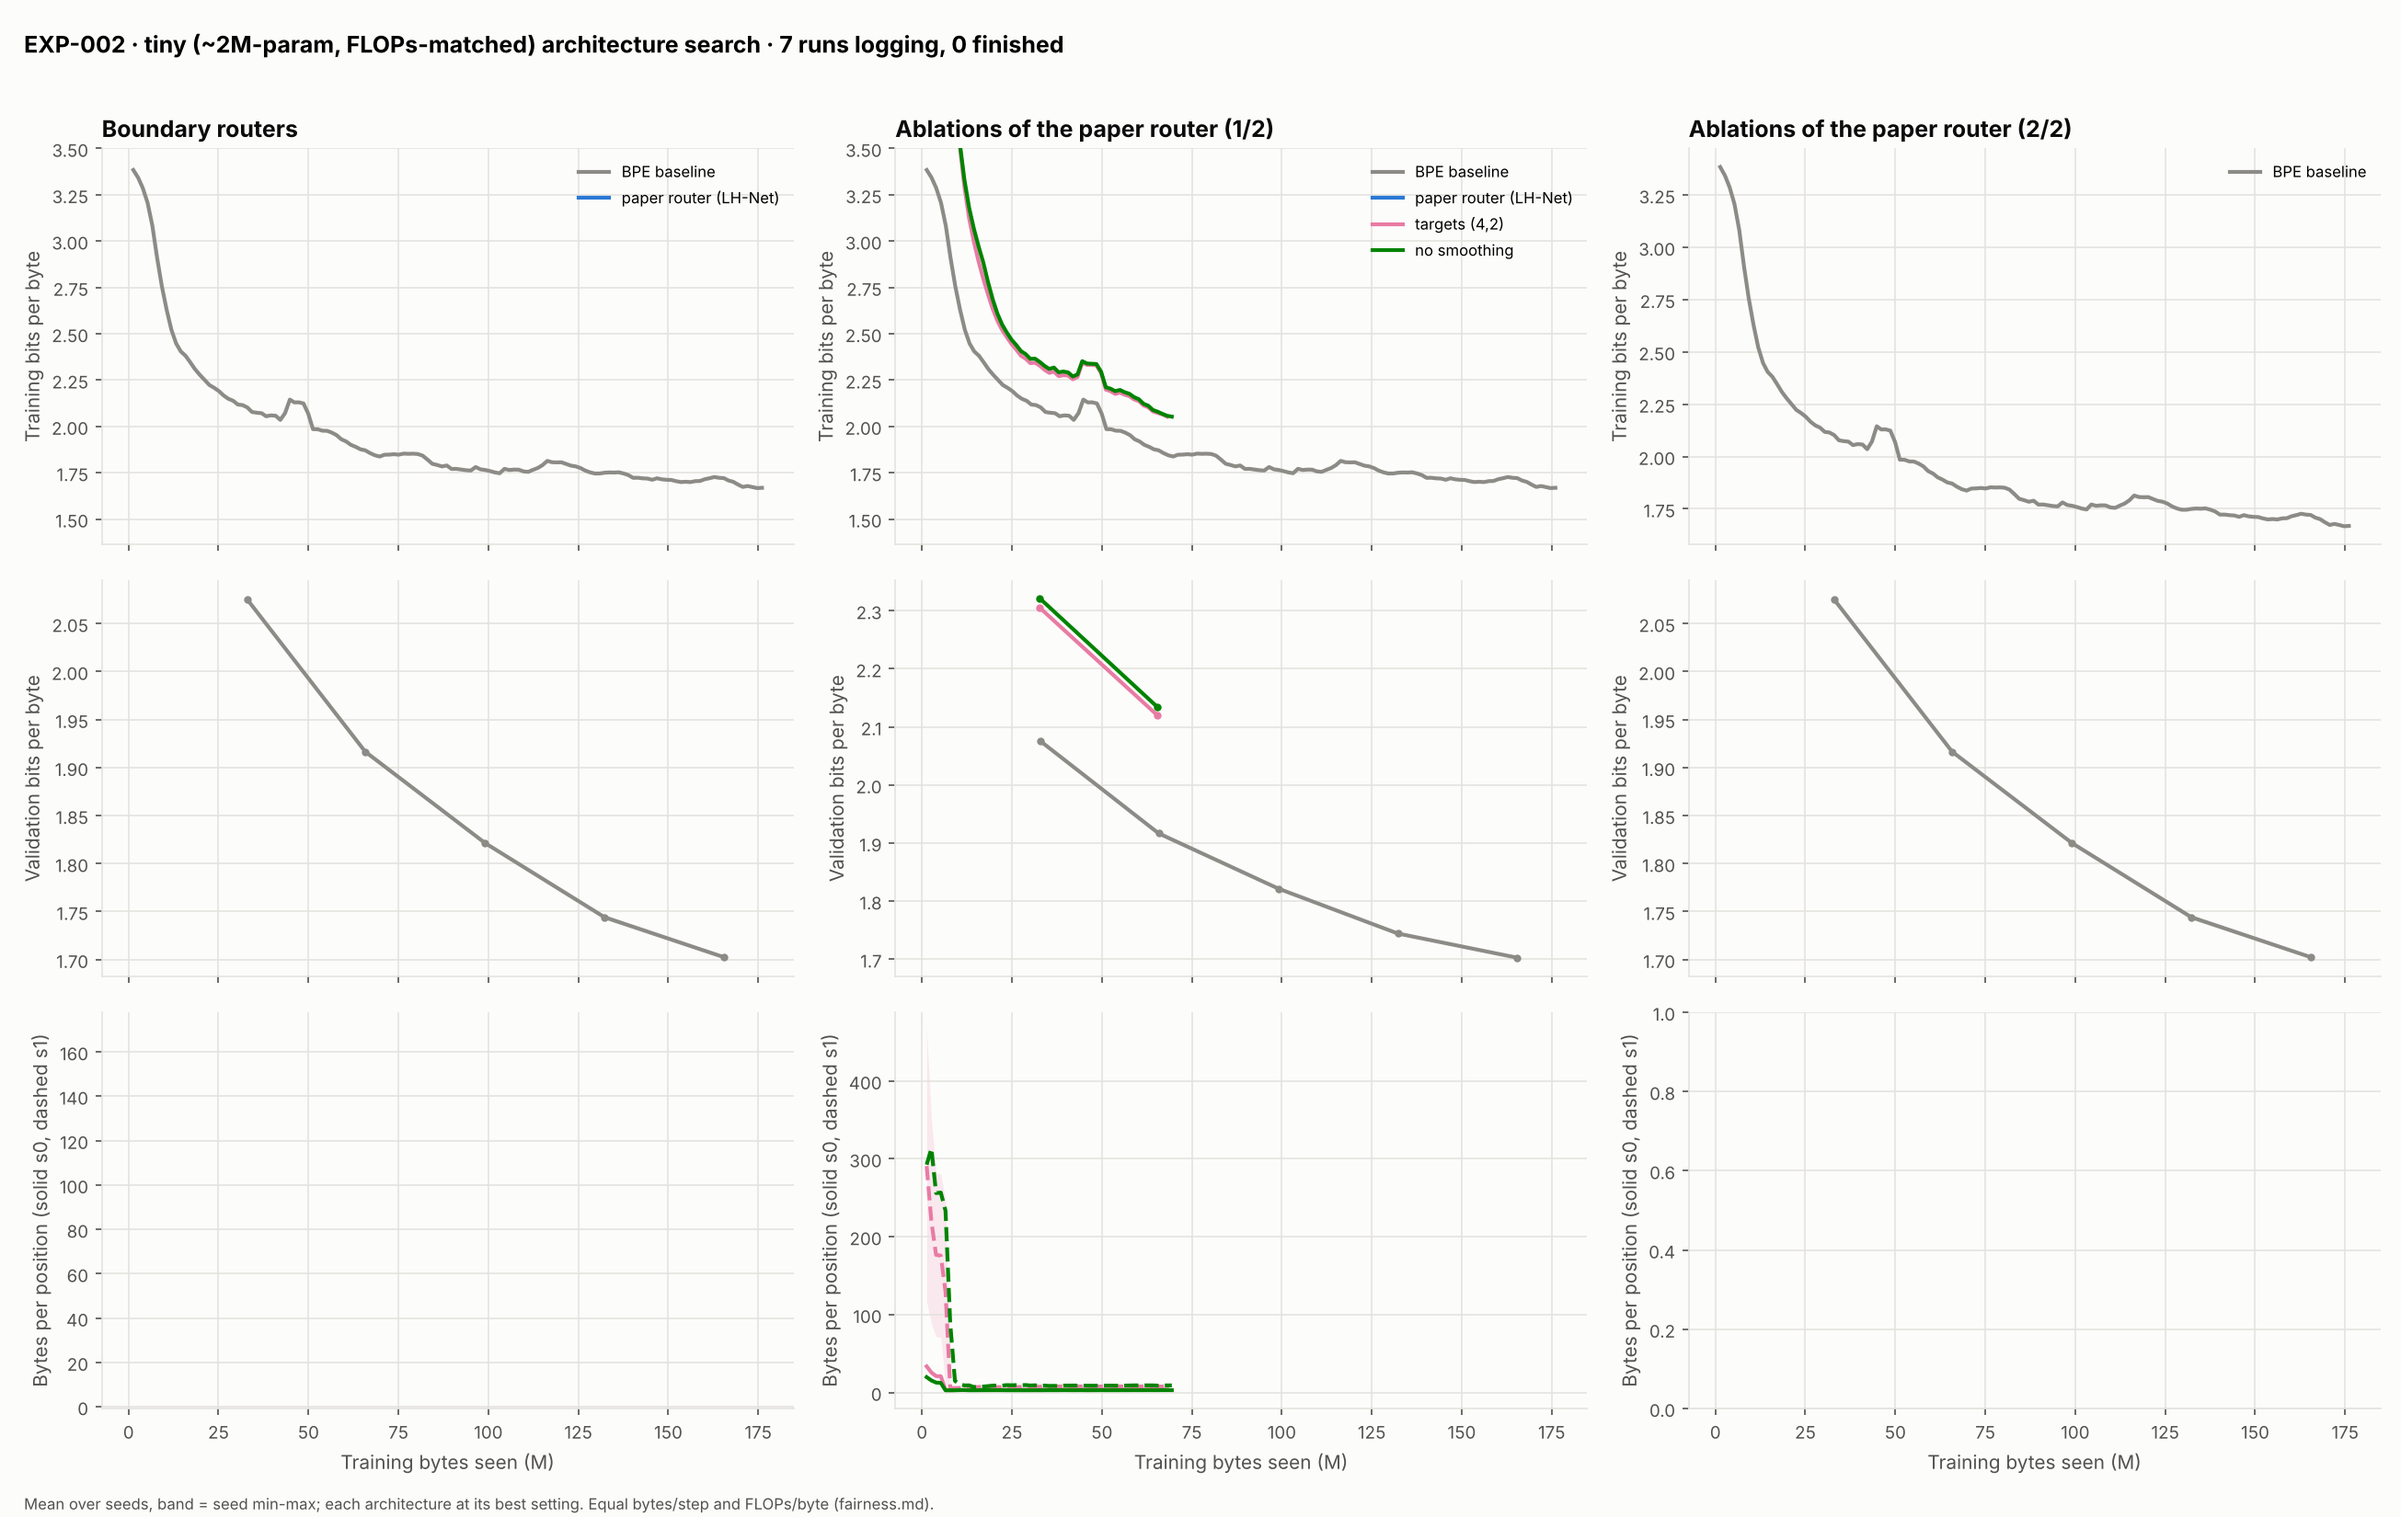
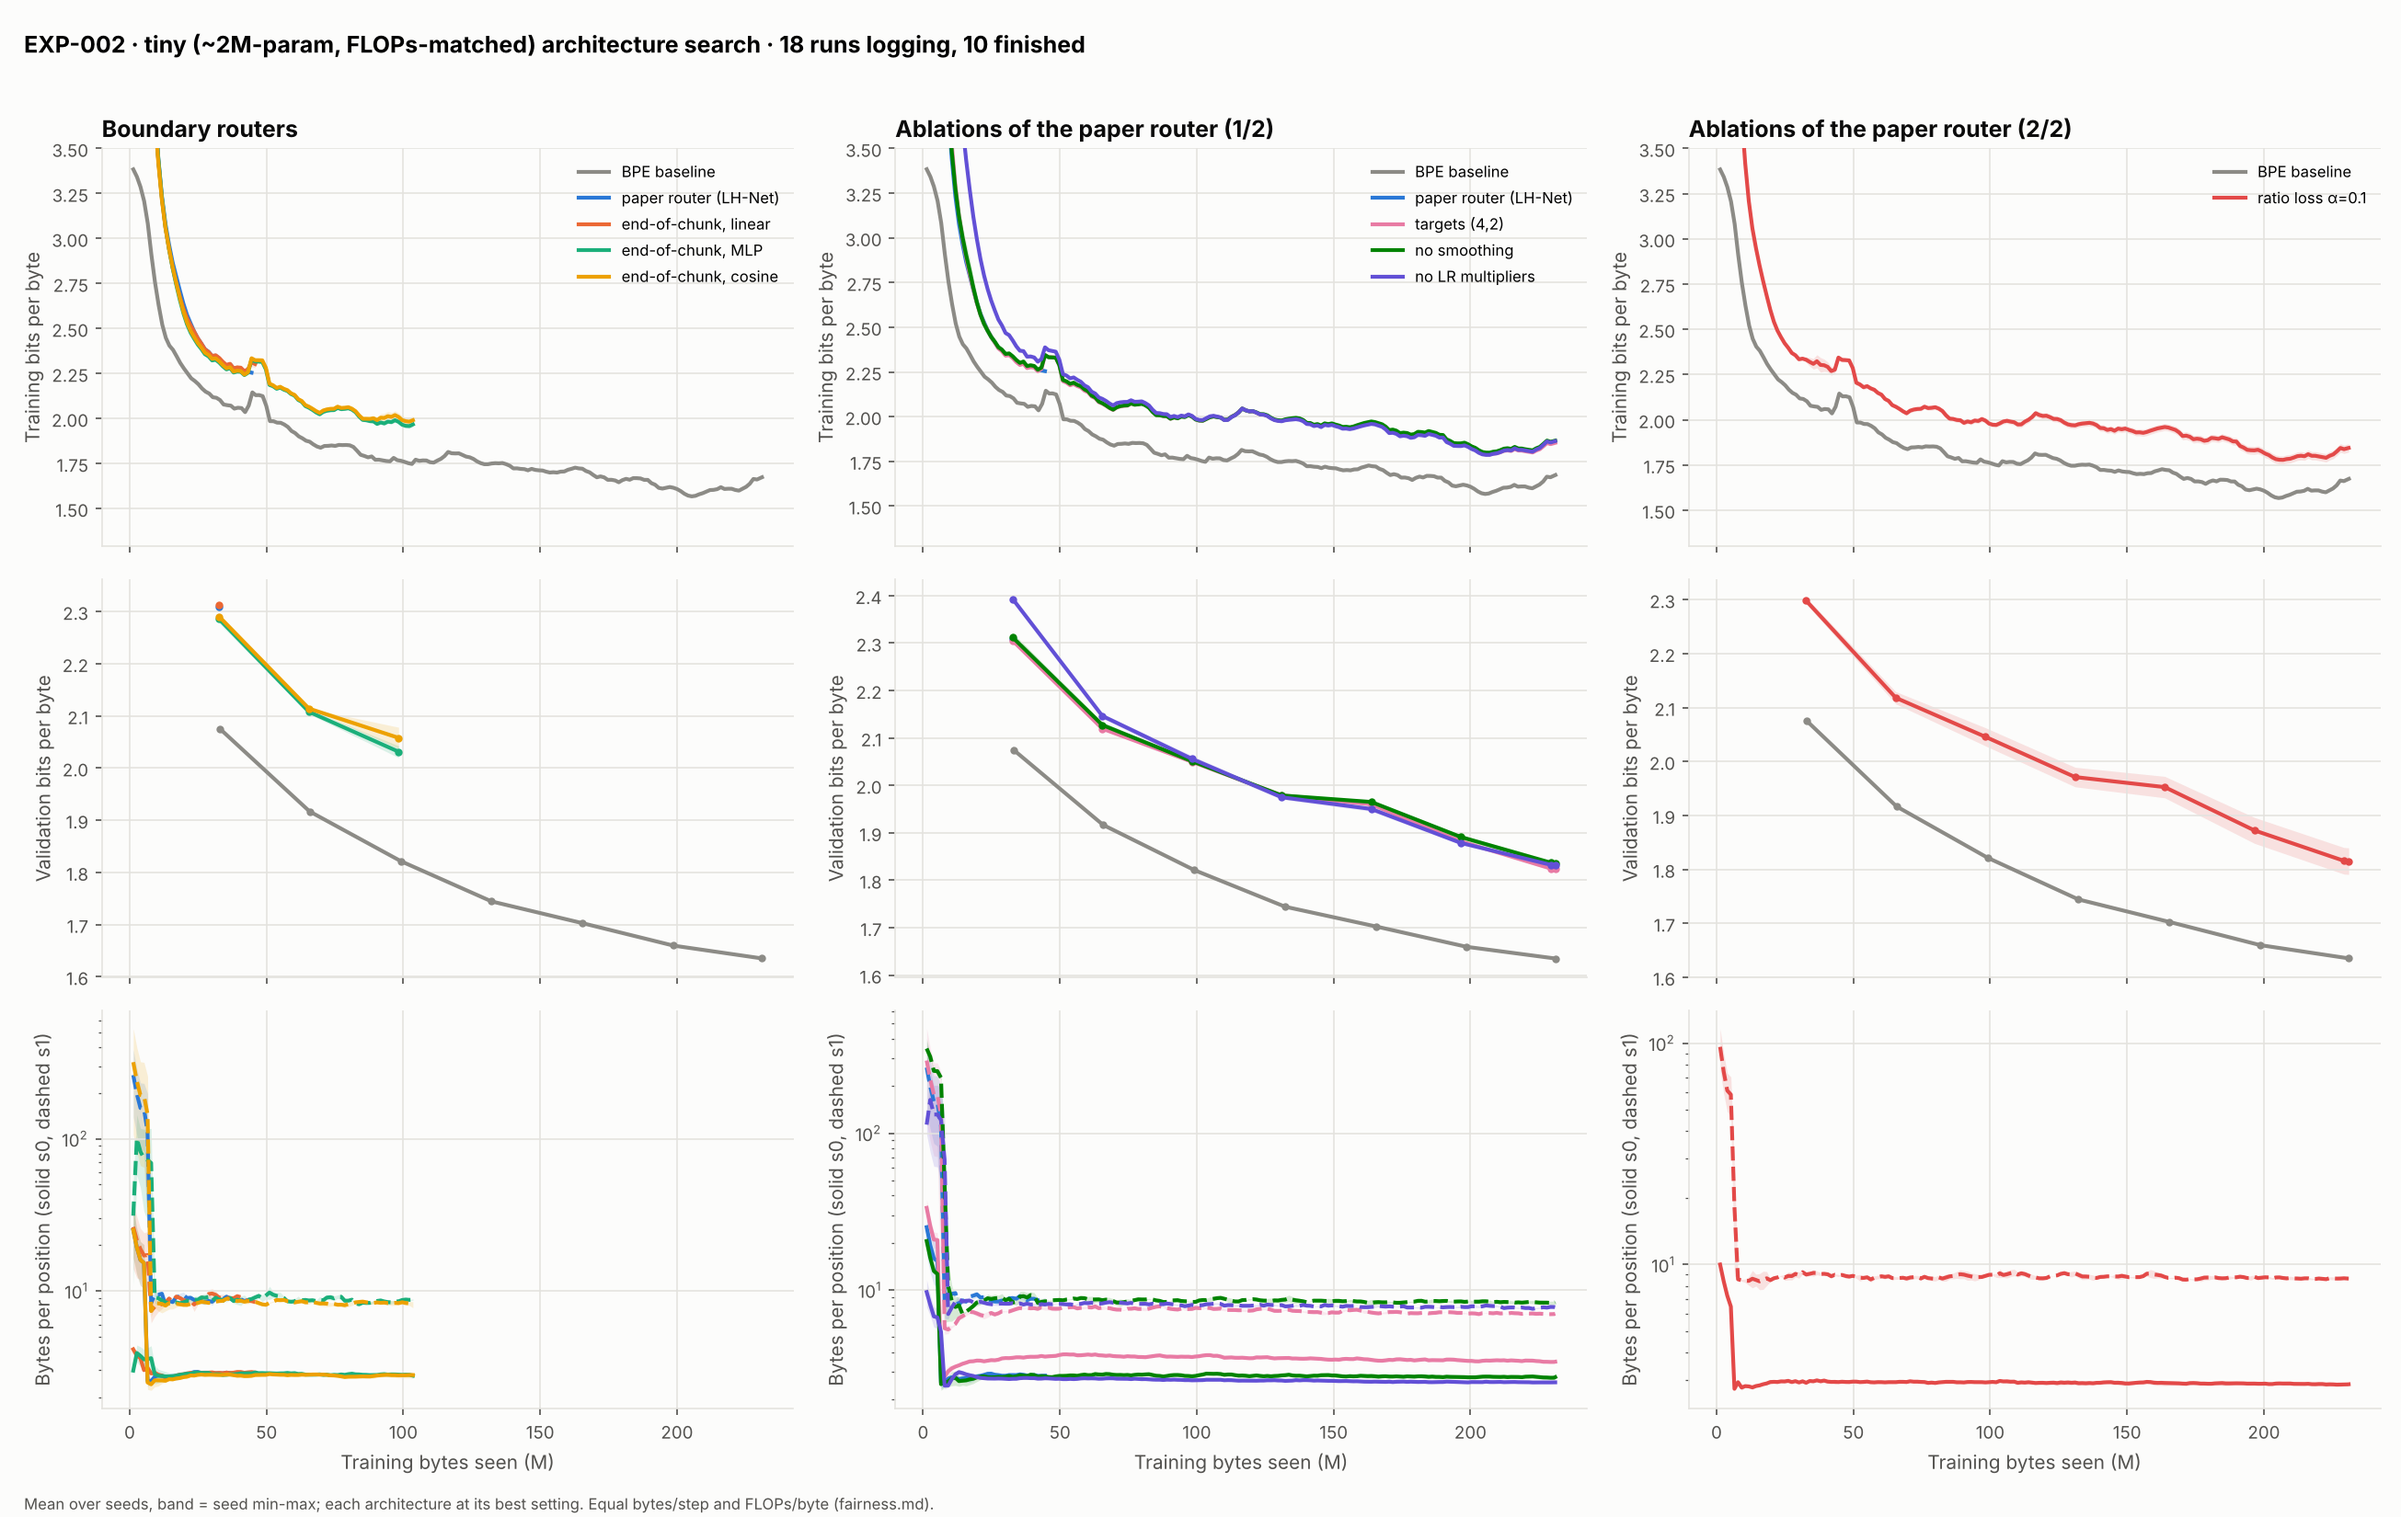
EXP-002 progress (10/18 done); log-scale bytes-per-position panels
Claude-Session: https://claude.ai/code/session_01UYKkbb18YEKxxquqBinToW

diff --git a/scripts/search/report.py b/scripts/search/report.py
@@ -382,6 +382,7 @@ def fig_overview(sweep, path, best, title):
                     _draw(ax, seed_curve(sweep.select(arch, pt), f"compression/s{s}", "train", True, _bpp(s)),
                           colors[arch], None, ls=ls)
         ax.set_ylabel("Bytes per position (solid s0, dashed s1)")
+        ax.set_yscale("log")  # early-training router collapse reaches 100s; steady state is single digits
         ax.set_xlabel("Training bytes seen (M)")
         axes[0, col].legend(loc="upper right", fontsize=8)
     _clip_bpb(axes[:2])
@@ -468,6 +469,7 @@ def fig_compression(sweep, path, best, title):
         ax.set_xlabel("Training bytes seen (M)")
         if ci_ == 0:
             ax.set_ylabel("Bytes per position (solid s0, dashed s1)")
+        ax.set_yscale("log")  # early-training router collapse reaches 100s; steady state is single digits
         ax.legend(fontsize=8)
     fig.suptitle(title, x=0.01, ha="left", fontsize=12, fontweight="bold")
     fig.tight_layout(rect=(0, 0, 1, 0.93))
